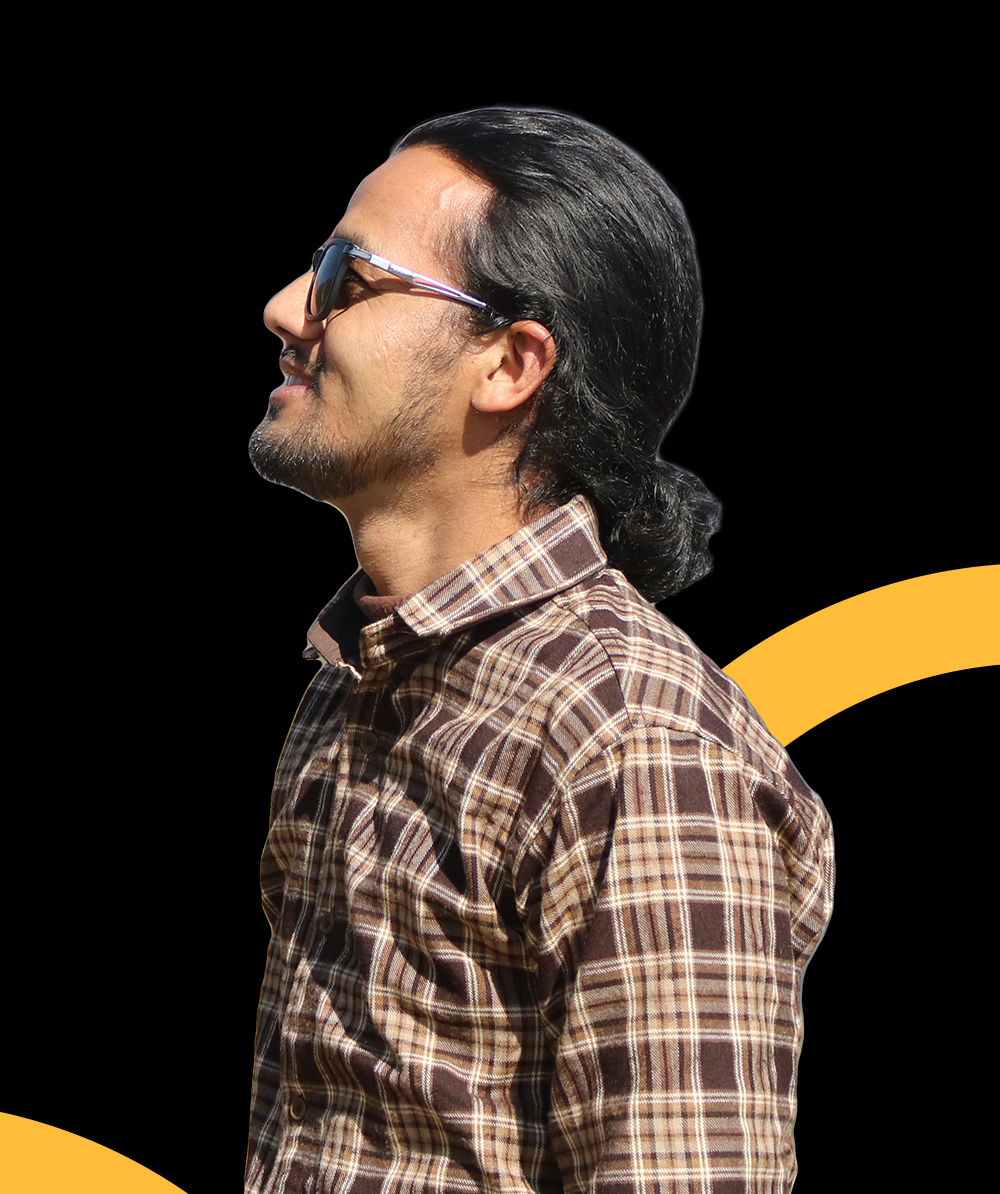
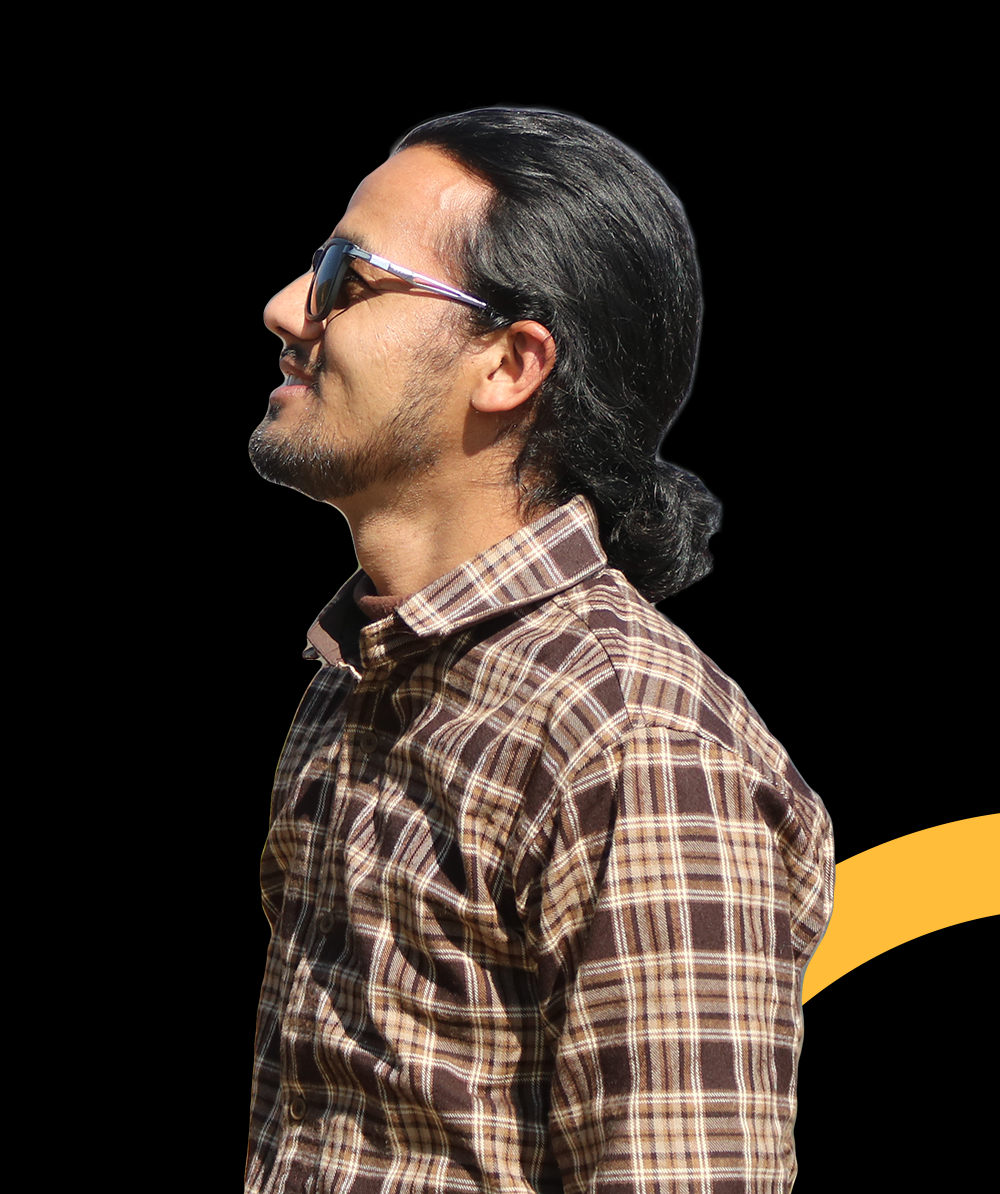
fix images

Changed region(s): [[0.713, 0.4648, 1.0, 0.6198], [0.806, 0.6817, 1.0, 0.8367], [0.0, 0.9296, 0.186, 1.0]]

diff --git a/index.html b/index.html
@@ -92,7 +92,7 @@
     			<div class="col-md-6 col-lg-5 d-flex">
     				<div class="img-about img d-flex align-items-stretch">
     					<div class="overlay"></div>
-	    				<div class="img d-flex align-self-stretch align-items-center" style="background-image:url(images/bg_1.png);">
+	    				<div class="img d-flex align-self-stretch align-items-center" style="background-image:url(images/about_me.png);">
 	    				</div>
     				</div>
     			</div>
